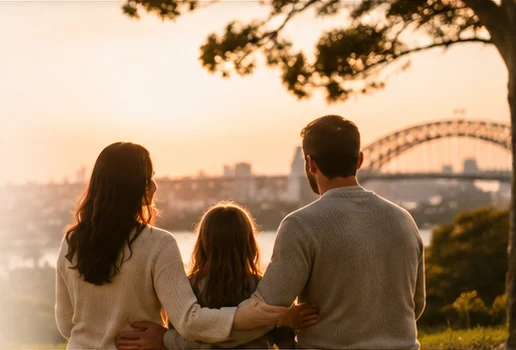
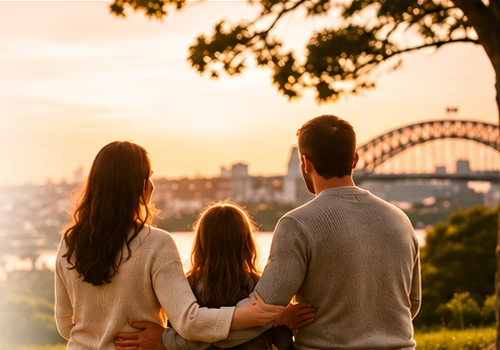
Bring homepage sections closer to the supplied design reference

Changed region(s): [[0.03, 0.0, 1.0, 1.0], [0.39, 0.3429, 0.48, 0.3714]]

diff --git a/docs/index.html b/docs/index.html
@@ -41,8 +41,8 @@
 <link rel="stylesheet" href="premium-experience.css?v=1">
 <link rel="stylesheet" href="editorial-redesign.css?v=1">
 <link rel="stylesheet" href="booking-journey.css?v=1">
-<link rel="stylesheet" href="approved-visual.css?v=harbour-mobile-3">
-<link rel="stylesheet" href="progressive-booking.css?v=1">
+<link rel="stylesheet" href="approved-visual.css?v=reference-layout-4">
+<link rel="stylesheet" href="progressive-booking.css?v=reference-2">
 <link rel="stylesheet" href="top-contact.css?v=2">
 <style>
 .client-home .client-band .profile-location{--profile-gap:18px;gap:var(--profile-gap);align-items:stretch}
@@ -173,19 +173,15 @@ function home(){
  document.querySelector('.header-nav').hidden=false;
  app.innerHTML=`<main class="hero client-home">
  <section class="hero-grid" aria-labelledby="hero-title">
-  <div class="hero-copy"><p class="eyebrow">Family law · Sydney, NSW</p><h1 id="hero-title">Family Law Solutions for Life’s Important Transitions</h1><p>Guidance when you’re making decisions about separation, parenting arrangements or finances.</p><div class="hero-actions"><a class="hero-link" href="#contact">Book a consultation <span class="direction-icon direction-right" aria-hidden="true"><svg viewBox="0 0 24 24" focusable="false"><path d="M4.5 12h14m-5-5 5 5-5 5"/></svg></span></a><a href="#services">Explore services <span class="direction-icon direction-down" aria-hidden="true"><svg viewBox="0 0 24 24" focusable="false"><path d="M12 4.5v14m-5-5 5 5 5-5"/></svg></span></a></div></div>
+  <div class="hero-copy"><p class="eyebrow">Family law · Sydney, NSW</p><h1 id="hero-title">Family Law Solutions for Life’s Important <em>Transitions</em></h1><p>Trusted legal support in <strong>divorce, parenting arrangements, property settlements and financial agreements.</strong></p><div class="hero-actions"><a class="hero-link" href="#contact">Book a consultation <span class="direction-icon direction-right" aria-hidden="true"><svg viewBox="0 0 24 24" focusable="false"><path d="M4.5 12h14m-5-5 5 5-5 5"/></svg></span></a><a href="#services">Our services <span class="direction-icon direction-down" aria-hidden="true"><svg viewBox="0 0 24 24" focusable="false"><path d="M12 4.5v14m-5-5 5 5 5-5"/></svg></span></a></div></div>
   <figure class="hero-photo"><img src="harbour-family-sunset.webp" alt="Illustration of a family overlooking Sydney Harbour at sunset" fetchpriority="high"></figure>
  </section>
- <section id="services" class="client-section">
-  <div class="section-lead"><h2>How we can help</h2><p>Explore the areas you may want to discuss in an initial consultation.</p></div>
-  <div class="service-grid">
-   <article><span class="service-emblem"><svg class="ui-icon ui-icon-separation" viewBox="0 0 24 24" aria-hidden="true" focusable="false"><circle cx="9" cy="14" r="5"/><circle cx="15" cy="14" r="5"/><path d="m12 3-2 3 2 2 2-2-2-3Z"/></svg></span><h3><a href="#separation">Divorce &amp; separation</a></h3><p>Discuss your circumstances, immediate priorities and questions about separation.</p><a class="service-enquiry" href="#contact" data-topic="separation" aria-label="Enquire about Divorce &amp; separation">Enquire <span class="direction-icon direction-right" aria-hidden="true"><svg viewBox="0 0 24 24" focusable="false"><path d="M4.5 12h14m-5-5 5 5-5 5"/></svg></span></a></article>
-   <article><span class="service-emblem"><svg class="ui-icon ui-icon-parenting" viewBox="0 0 24 24" aria-hidden="true" focusable="false"><circle cx="8" cy="7" r="3"/><circle cx="17" cy="8.5" r="2.5"/><path d="M2 20v-2a5 5 0 0 1 5-5h2a5 5 0 0 1 5 5v2m2-6h1a5 5 0 0 1 5 5v1"/></svg></span><h3><a href="#parenting">Parenting arrangements</a></h3><p>Discuss where your children will live and how they’ll spend time with each parent.</p><a class="service-enquiry" href="#contact" data-topic="parenting" aria-label="Enquire about Parenting arrangements">Enquire <span class="direction-icon direction-right" aria-hidden="true"><svg viewBox="0 0 24 24" focusable="false"><path d="M4.5 12h14m-5-5 5 5-5 5"/></svg></span></a></article>
-   <article><span class="service-emblem"><svg class="ui-icon ui-icon-property" viewBox="0 0 24 24" aria-hidden="true" focusable="false"><path d="m3 11 9-7 9 7M5 10v10h14V10M10 20v-5h4v5"/></svg></span><h3><a href="#property">Property &amp; finances</a></h3><p>Work through questions about the family home, assets and debts.</p><a class="service-enquiry" href="#contact" data-topic="property" aria-label="Enquire about Property &amp; finances">Enquire <span class="direction-icon direction-right" aria-hidden="true"><svg viewBox="0 0 24 24" focusable="false"><path d="M4.5 12h14m-5-5 5 5-5 5"/></svg></span></a></article>
-   <article><span class="service-emblem"><svg class="ui-icon ui-icon-consent" viewBox="0 0 24 24" aria-hidden="true" focusable="false"><path d="M13 3H6a2 2 0 0 0-2 2v14a2 2 0 0 0 2 2h12a2 2 0 0 0 2-2V10zm0 0v7h7m-12 5 2 2 5-5"/></svg></span><h3><a href="#consent">Consent orders</a></h3><p>Discuss how to document parenting or property arrangements you have agreed on.</p><a class="service-enquiry" href="#contact" data-topic="consent" aria-label="Enquire about Consent orders">Enquire <span class="direction-icon direction-right" aria-hidden="true"><svg viewBox="0 0 24 24" focusable="false"><path d="M4.5 12h14m-5-5 5 5-5 5"/></svg></span></a></article>
-  </div>
- </section>
- <section class="client-section service-details"><details id="separation"><summary>Divorce and separation</summary><p>Prepare a summary of your situation and the decisions you would like to discuss with a solicitor.</p></details><details id="parenting"><summary>Parenting arrangements</summary><p>Write down current arrangements, practical concerns, and questions about where children live and how they spend time with each parent.</p></details><details id="property"><summary>Property and finances</summary><p>Prepare a list of questions about the family home, other assets, debts, or financial agreements.</p></details><details id="consent"><summary>Consent orders</summary><p>Make a note of what you have agreed on and any points you still want to discuss.</p></details></section>
+ <nav class="premium-quick-links" aria-label="Family law services">
+  <a href="#separation"><svg class="ui-icon ui-icon-separation" viewBox="0 0 24 24" aria-hidden="true" focusable="false"><circle cx="9" cy="14" r="5"/><circle cx="15" cy="14" r="5"/><path d="m12 3-2 3 2 2 2-2-2-3Z"/></svg><span>Divorce &amp; separation</span></a>
+  <a href="#parenting"><svg class="ui-icon ui-icon-parenting" viewBox="0 0 24 24" aria-hidden="true" focusable="false"><circle cx="8" cy="7" r="3"/><circle cx="17" cy="8.5" r="2.5"/><path d="M2 20v-2a5 5 0 0 1 5-5h2a5 5 0 0 1 5 5v2m2-6h1a5 5 0 0 1 5 5v1"/></svg><span>Parenting arrangements</span></a>
+  <a href="#property"><svg class="ui-icon ui-icon-property" viewBox="0 0 24 24" aria-hidden="true" focusable="false"><path d="m3 11 9-7 9 7M5 10v10h14V10M10 20v-5h4v5"/></svg><span>Property &amp; finances</span></a>
+  <a href="#consent"><svg class="ui-icon ui-icon-consent" viewBox="0 0 24 24" aria-hidden="true" focusable="false"><path d="M13 3H6a2 2 0 0 0-2 2v14a2 2 0 0 0 2 2h12a2 2 0 0 0 2-2V10zm0 0v7h7m-12 5 2 2 5-5"/></svg><span>Consent orders</span></a>
+ </nav>
   <section class="premium-journey" aria-labelledby="premium-journey-title">
   <div class="premium-journey-inner">
    <span class="premium-eyebrow">A clear process, at your pace</span>
@@ -200,12 +196,26 @@ function home(){
    </div>
   </div>
  </section>
+ <aside class="reference-consultation-cta" aria-labelledby="reference-consultation-title">
+  <div><h2 id="reference-consultation-title">Book a Consultation</h2><p>Choose your preferred date and time in Sydney.</p></div>
+  <a class="action" href="#contact">Check availability</a>
+ </aside>
+ <section id="services" class="client-section">
+  <div class="section-lead"><h2>How we can help</h2><p>Explore the areas you may want to discuss in an initial consultation.</p></div>
+  <div class="service-grid">
+   <article><span class="service-emblem"><svg class="ui-icon ui-icon-separation" viewBox="0 0 24 24" aria-hidden="true" focusable="false"><circle cx="9" cy="14" r="5"/><circle cx="15" cy="14" r="5"/><path d="m12 3-2 3 2 2 2-2-2-3Z"/></svg></span><h3><a href="#separation">Divorce &amp; separation</a></h3><p>Discuss your circumstances, immediate priorities and questions about separation.</p><a class="service-enquiry" href="#contact" data-topic="separation" aria-label="Enquire about Divorce &amp; separation">Enquire <span class="direction-icon direction-right" aria-hidden="true"><svg viewBox="0 0 24 24" focusable="false"><path d="M4.5 12h14m-5-5 5 5-5 5"/></svg></span></a></article>
+   <article><span class="service-emblem"><svg class="ui-icon ui-icon-parenting" viewBox="0 0 24 24" aria-hidden="true" focusable="false"><circle cx="8" cy="7" r="3"/><circle cx="17" cy="8.5" r="2.5"/><path d="M2 20v-2a5 5 0 0 1 5-5h2a5 5 0 0 1 5 5v2m2-6h1a5 5 0 0 1 5 5v1"/></svg></span><h3><a href="#parenting">Parenting arrangements</a></h3><p>Discuss where your children will live and how they’ll spend time with each parent.</p><a class="service-enquiry" href="#contact" data-topic="parenting" aria-label="Enquire about Parenting arrangements">Enquire <span class="direction-icon direction-right" aria-hidden="true"><svg viewBox="0 0 24 24" focusable="false"><path d="M4.5 12h14m-5-5 5 5-5 5"/></svg></span></a></article>
+   <article><span class="service-emblem"><svg class="ui-icon ui-icon-property" viewBox="0 0 24 24" aria-hidden="true" focusable="false"><path d="m3 11 9-7 9 7M5 10v10h14V10M10 20v-5h4v5"/></svg></span><h3><a href="#property">Property &amp; finances</a></h3><p>Work through questions about the family home, assets and debts.</p><a class="service-enquiry" href="#contact" data-topic="property" aria-label="Enquire about Property &amp; finances">Enquire <span class="direction-icon direction-right" aria-hidden="true"><svg viewBox="0 0 24 24" focusable="false"><path d="M4.5 12h14m-5-5 5 5-5 5"/></svg></span></a></article>
+   <article><span class="service-emblem"><svg class="ui-icon ui-icon-consent" viewBox="0 0 24 24" aria-hidden="true" focusable="false"><path d="M13 3H6a2 2 0 0 0-2 2v14a2 2 0 0 0 2 2h12a2 2 0 0 0 2-2V10zm0 0v7h7m-12 5 2 2 5-5"/></svg></span><h3><a href="#consent">Consent orders</a></h3><p>Discuss how to document parenting or property arrangements you have agreed on.</p><a class="service-enquiry" href="#contact" data-topic="consent" aria-label="Enquire about Consent orders">Enquire <span class="direction-icon direction-right" aria-hidden="true"><svg viewBox="0 0 24 24" focusable="false"><path d="M4.5 12h14m-5-5 5 5-5 5"/></svg></span></a></article>
+  </div>
+ </section>
+ <section class="client-section service-details"><details id="separation"><summary>Divorce and separation</summary><p>Prepare a summary of your situation and the decisions you would like to discuss with a solicitor.</p></details><details id="parenting"><summary>Parenting arrangements</summary><p>Write down current arrangements, practical concerns, and questions about where children live and how they spend time with each parent.</p></details><details id="property"><summary>Property and finances</summary><p>Prepare a list of questions about the family home, other assets, debts, or financial agreements.</p></details><details id="consent"><summary>Consent orders</summary><p>Make a note of what you have agreed on and any points you still want to discuss.</p></details></section>
  <section class="premium-knowledge" aria-labelledby="premium-knowledge-title">
   <div class="premium-knowledge-head"><div><span class="premium-eyebrow">Helpful starting points</span><h2 id="premium-knowledge-title">Family law knowledge hub</h2><p>General information to help you prepare questions for your first conversation. These summaries are not legal advice.</p></div><a href="#resources">Browse FAQs →</a></div>
   <div class="premium-knowledge-grid">
-   <article class="premium-article"><div class="premium-article-art" aria-hidden="true">§</div><div class="premium-article-body"><small>SEPARATION</small><h3>Preparing for a separation consultation</h3><p>Write down important dates, immediate concerns and the questions you want to ask.</p><a href="#contact">Ask about separation →</a></div></article>
-   <article class="premium-article"><div class="premium-article-art" aria-hidden="true">♡</div><div class="premium-article-body"><small>PARENTING</small><h3>Discussing parenting arrangements</h3><p>Consider current routines, practical arrangements and the issues you would like to clarify.</p><a href="#contact">Ask about parenting →</a></div></article>
-   <article class="premium-article"><div class="premium-article-art" aria-hidden="true">⌂</div><div class="premium-article-body"><small>PROPERTY</small><h3>Organising financial information</h3><p>Prepare a broad list of assets, liabilities and records to discuss with your solicitor.</p><a href="#contact">Ask about property →</a></div></article>
+   <article class="premium-article"><img class="premium-article-art" src="guide-separation.webp" alt="" width="183" height="47" loading="lazy"><div class="premium-article-body"><small>SEPARATION</small><h3>Preparing for a separation consultation</h3><p>Write down important dates, immediate concerns and the questions you want to ask.</p><a href="#contact">Ask about separation →</a></div></article>
+   <article class="premium-article"><img class="premium-article-art" src="guide-parenting.webp" alt="" width="183" height="47" loading="lazy"><div class="premium-article-body"><small>PARENTING</small><h3>Discussing parenting arrangements</h3><p>Consider current routines, practical arrangements and the issues you would like to clarify.</p><a href="#contact">Ask about parenting →</a></div></article>
+   <article class="premium-article"><img class="premium-article-art" src="guide-property.webp" alt="" width="183" height="47" loading="lazy"><div class="premium-article-body"><small>PROPERTY</small><h3>Organising financial information</h3><p>Prepare a broad list of assets, liabilities and records to discuss with your solicitor.</p><a href="#contact">Ask about property →</a></div></article>
   </div>
  </section>
  <section id="resources" class="client-section client-faq"><h2>Frequently asked questions</h2><details name="client-faq"><summary>What should I prepare?</summary><p>A short timeline, a list of questions and any upcoming deadlines can help you explain what you need.</p></details><details name="client-faq"><summary>What can we discuss?</summary><p>Start with the decisions you’re facing and what you’d like to understand before taking your next step.</p></details><details name="client-faq"><summary>Does an enquiry confirm my appointment?</summary><p>An appointment is confirmed separately after a time has been agreed.</p></details></section>
@@ -237,7 +247,7 @@ function home(){
  </section>
  <section id="consultation-prep" class="client-section" aria-labelledby="consultation-prep-title">
   <div class="consultation-prep">
-   <h2 id="consultation-prep-title">Before your first consultation</h2>
+   <h2 id="consultation-prep-title">Consultation Preparation Guide</h2>
    <p>A few notes can help you make the most of your first conversation.</p>
    <ul>
     <li><strong>Write a short timeline</strong><span>Note the key dates and what has happened so far.</span></li>
@@ -249,7 +259,7 @@ function home(){
  </section>
  <section id="contact" class="client-section" aria-labelledby="consultation-title"><div class="contact-panel consultation-wide">
   <div class="consultation-intro">
-   <h2 id="consultation-title">Contact us</h2>
+   <h2 id="consultation-title">Book a Consultation</h2>
    <p>Tell us what you’d like to discuss, from separation and parenting arrangements to property and finances.</p>
    <a href="#contact-info">Office location and directions</a>
   </div>

diff --git a/docs/approved-visual.css b/docs/approved-visual.css
@@ -102,3 +102,54 @@ body:has(.client-home) .site-header .nav-cta{background:linear-gradient(135deg,#
   .client-home .service-grid .service-enquiry { display:inline-flex; align-items:center; min-height:44px; padding-block:7px; }
   .client-home :is(input,select,textarea) { font-size:16px; }
 }
+
+.client-home .hero-copy h1 em {
+  display:inline-block;
+  color:#945014;
+  border-bottom:2px solid #c5822a;
+  font-weight:400;
+}
+.client-home .premium-quick-links {
+  display:grid;
+  grid-template-columns:repeat(4,minmax(0,1fr));
+  gap:0;
+  padding:13px;
+}
+.client-home .premium-quick-links a {
+  display:grid;
+  justify-items:center;
+  align-content:center;
+  gap:6px;
+  min-height:72px;
+  padding:7px 9px;
+  text-align:center;
+  text-decoration:none;
+  font-weight:700;
+}
+.client-home .premium-quick-links a:hover,
+.client-home .premium-quick-links a:focus-visible { background:#f6e6d4; border-radius:8px; }
+.client-home .premium-quick-links svg { width:28px; height:28px; color:#96510e; }
+.client-home .premium-journey-inner { padding-block:clamp(30px,5vw,62px); }
+.reference-consultation-cta {
+  width:min(1160px,calc(100% - 40px));
+  margin:0 auto 24px;
+  padding:clamp(20px,4vw,42px);
+  display:flex;
+  align-items:center;
+  flex-wrap:wrap;
+  justify-content:space-between;
+  gap:14px;
+  border:1px solid #b17e42;
+  border-radius:18px;
+  background:radial-gradient(ellipse at 85% 100%,#821e39,#470d20 68%);
+  color:#fff8ee;
+}
+.reference-consultation-cta h2 { color:inherit; font:400 clamp(25px,4vw,38px) Georgia,serif; margin:0 0 5px; }
+.reference-consultation-cta p { margin:0; }
+.reference-consultation-cta .action { background:#f2c675; color:#481327; }
+.client-home img.premium-article-art { display:block; width:100%; height:auto; aspect-ratio:3.89; object-fit:cover; }
+@media(max-width:700px) {
+  .client-home .premium-quick-links { width:calc(100% - 28px); margin:12px auto 0; grid-template-columns:repeat(2,minmax(0,1fr)); gap:5px; border-radius:14px; padding:8px; }
+  .client-home .premium-quick-links a { border:0; background:#faf0e4; border-radius:7px; }
+  .reference-consultation-cta { width:calc(100% - 28px); }
+}

diff --git a/docs/progressive-booking.css b/docs/progressive-booking.css
@@ -14,3 +14,24 @@
 .client-home .premium-booking-review strong{color:#48172b}
 .client-home .consultation-fields label[hidden]{display:none!important}
 @media(max-width:560px){.client-home .premium-booking-steps{gap:4px}.client-home .premium-booking-steps span{font-size:10px;padding:10px 4px}.client-home .premium-booking-navigation button{padding:12px 15px}}
+
+.client-home .consultation-wide .consultation-form {
+  border-top:5px solid #65162e;
+  border-radius:0 14px 14px 0;
+  padding:clamp(16px,3vw,32px);
+  min-width:0;
+}
+.client-home .premium-booking-steps {
+  background:#521126;
+  border:1px solid #7b2940;
+  border-radius:12px;
+  padding:8px;
+}
+.client-home .premium-booking-steps span { background:#6e2439; border-color:#93465a; color:#fff8ee; }
+.client-home .premium-booking-steps span.active { color:#471020; }
+.client-home .premium-booking-navigation button { min-height:44px; }
+@media(max-width:700px) {
+  .client-home .consultation-wide .consultation-form { border-radius:0 0 14px 14px; }
+  .client-home .premium-booking-steps span { border-radius:8px; font-size:12px; }
+  .client-home .premium-booking-navigation .premium-next { flex:1; }
+}
